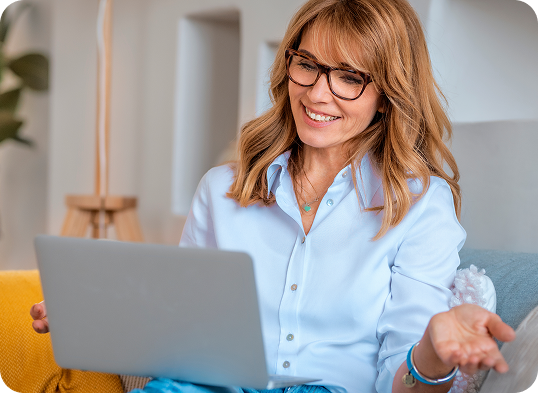
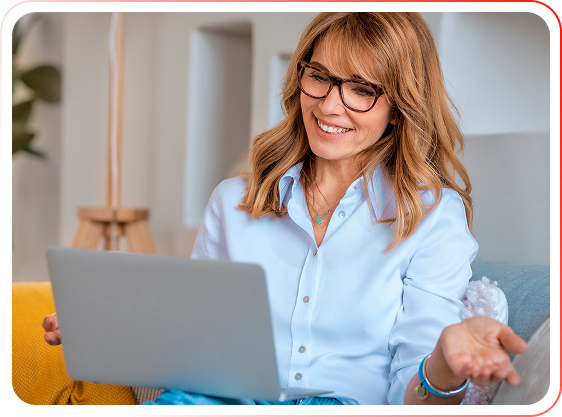
Section changes

diff --git a/styles/style.css b/styles/style.css
@@ -353,12 +353,8 @@ body {
     border-radius: 16px;
     object-fit: cover;
     display: block;
-    padding: 4px;
-    border: 5px solid transparent;
-    border-radius: 12px;
-    background: linear-gradient(45deg, #ff7e5f, #feb47b) border-box;
-    -webkit-background-clip: padding-box, border-box;
-    background-clip: padding-box, border-box;
+
+
 }
 
 .hero-body {
@@ -369,11 +365,11 @@ body {
 }
 
 .hero-title {
-    font-size: 28px;
-    line-height: 36px;
+    font-size: 24px;
+    line-height: 32px;
     margin: 0;
-    color: var(--text-color);
-    font-weight: 700
+    color: black;
+    font-weight: 500
 }
 
 .hero-title .accent {
@@ -383,7 +379,7 @@ body {
 .hero-card {
     background: rgba(255, 255, 255, 0.8);
     border-radius: 16px;
-    padding: 16px;
+    padding: 1px;
     box-shadow: 0 12px 32px rgba(0, 20, 89, 0.12);
     backdrop-filter: blur(6px)
 }
@@ -719,9 +715,11 @@ body {
 
 .cards__title {
     color: #fff;
-    font-size: 20px;
-    line-height: 1.2;
+    font-size: 22px;
+    line-height: 1.1;
     margin: 0;
+    text-transform: uppercase;
+    letter-spacing: 0.6px;
 }
 
 .cards__controls {
@@ -760,6 +758,27 @@ body {
     display: block;
 }
 
+.card {
+    /* subtle elevated cards like the design */
+    box-shadow: 0 6px 18px rgba(16, 24, 40, 0.08);
+}
+
+.card__media-wrap {
+    display: block;
+    width: 100%;
+    overflow: hidden;
+    position: relative;
+    right: 40px;
+    bottom: 20px;
+}
+
+.card__media {
+    display: block;
+    width: 100%;
+
+
+}
+
 
 .card__body {
     padding: 12px;
@@ -780,19 +799,21 @@ body {
     display: flex;
     gap: 8px;
     justify-content: center;
-    margin-top: 12px
+    margin-top: 18px;
 }
 
 .cards__dot {
     width: 10px;
     height: 10px;
     border-radius: 999px;
-    background: rgba(255, 255, 255, 0.35);
-    border: 0
+    background: rgba(255, 255, 255, 0.85);
+    border: 2px solid rgba(255, 255, 255, 0.2);
+    box-shadow: 0 1px 2px rgba(0, 0, 0, 0.08);
 }
 
 .cards__dot.is-active {
-    background: #fff
+    background: #ff1200;
+    border-color: #ff1200;
 }
 
 .cards__cta {
@@ -803,10 +824,15 @@ body {
     margin: 12px auto 0;
     background: linear-gradient(90deg, #ff1200, #ff5a3a);
     color: #fff;
-    padding: 10px 16px;
+    padding: 12px 20px;
     border-radius: 999px;
     text-decoration: none;
     font-weight: 700
+}
+
+/* Make the cards area visually separated inside the blue panel */
+.cards__container {
+    padding: 20px 8px;
 }
 
 /* ----------------------
@@ -1309,6 +1335,110 @@ body {
     font-size: 13px;
     color: var(--muted);
     text-align: center
+}
+
+/* ----------------------
+   FAQ (mobile-first, accessible)
+   ---------------------- */
+.faq {
+    background: #eaf6fb;
+    /* slightly lighter than design base */
+    padding: 48px 16px;
+}
+
+.faq__wrap {
+    width: 100%;
+    max-width: 1200px;
+    margin: 0 auto;
+}
+
+.faq__header {
+    text-align: center;
+    margin-bottom: 20px;
+}
+
+.faq__title {
+    color: #ff1200;
+    font-size: 18px;
+    font-weight: 800;
+    letter-spacing: 0.6px;
+    text-transform: uppercase;
+    margin: 0;
+}
+
+.faq__container {
+    background: #ffffff;
+    border-radius: 16px;
+    padding: 20px;
+}
+
+.faq__grid {
+    display: flex;
+    flex-direction: column;
+    gap: 16px;
+}
+
+.faq__column {
+    display: flex;
+    flex-direction: column;
+    gap: 16px;
+}
+
+.faq__item {
+    background: transparent;
+    border-radius: 10px;
+    overflow: hidden;
+}
+
+.faq__item summary {
+    list-style: none;
+    cursor: pointer;
+    padding: 18px 12px;
+    display: flex;
+    align-items: center;
+    justify-content: space-between;
+    gap: 12px;
+    font-weight: 700;
+    font-size: 16px;
+    border-radius: 8px;
+}
+
+.faq__item[open] summary {
+    background: #fff;
+}
+
+.faq__question {
+    color: #000;
+}
+
+.faq__answer {
+    padding: 12px 12px 18px 12px;
+    color: #374354;
+    font-size: 15px;
+    line-height: 1.5;
+    border-top: 1px solid #e6ebee;
+    background: #fff;
+}
+
+.faq__item summary::-webkit-details-marker {
+    display: none
+}
+
+.faq__item summary:after {
+    content: '+';
+    display: inline-block;
+    width: 28px;
+    height: 28px;
+    border-radius: 999px;
+    border: 1px solid #ff1200;
+    color: #ff1200;
+    text-align: center;
+    line-height: 26px;
+    font-weight: 700;
+}
+
+.faq__item[open] summary:after {
+    content: '−';
 }
 
 @media screen and (max-width: 325px) {

diff --git a/index.html b/index.html
@@ -100,6 +100,7 @@
         </div>
         <div class="hero-decor hero-decor--left" aria-hidden="true"></div>
     </section>
+
     <!-- Bundles -->
 
 
@@ -453,7 +454,72 @@
             </div>
         </div>
     </section>
+    <!-- FAQ: Frequently asked questions -->
+    <section class="faq" aria-label="Frequently asked questions">
+        <div class="faq__wrap">
+            <header class="faq__header">
+                <h2 class="faq__title">Frequently Asked Questions</h2>
+            </header>
 
+            <div class="faq__container">
+                <div class="faq__grid">
+                    <div class="faq__column">
+                        <details class="faq__item" open>
+                            <summary class="faq__question">Can I take the same type of course more than once and receive
+                                CE credits?</summary>
+                            <div class="faq__answer">An example of this would be completing an additional 3 CE hours of
+                                Ethics resulting in a total of 6 hours of Ethics. Yes, you can. The additional 3 CE
+                                hours of Ethics would then go towards your General CE requirements. But you cannot take
+                                the same course (same NRED CE #) for a second time and receive the additional credits.
+                                Prior to submitting your completed CE certificates, verify that you do not have
+                                duplicate courses.</div>
+                        </details>
+
+                        <details class="faq__item">
+                            <summary class="faq__question">Where can I go to get the most up-to-date real estate license
+                                renewal information?</summary>
+                        </details>
+
+                        <details class="faq__item">
+                            <summary class="faq__question">If this is my first renewal, how many hours of education do I
+                                need to renew my real estate license?</summary>
+                        </details>
+
+                        <details class="faq__item">
+                            <summary class="faq__question">How many CE credits do I need to renew my Salesperson real
+                                estate license?</summary>
+                        </details>
+                    </div>
+
+                    <div class="faq__column">
+                        <details class="faq__item">
+                            <summary class="faq__question">What is the difference between Live, internet, and ZOOM?
+                            </summary>
+                        </details>
+
+                        <details class="faq__item">
+                            <summary class="faq__question">I also hold an NRED Property Manager permit. What additional
+                                courses do I need to complete to renew my PM permit?</summary>
+                        </details>
+
+                        <details class="faq__item">
+                            <summary class="faq__question">Can I renew my real estate license online?</summary>
+                        </details>
+
+                        <details class="faq__item">
+                            <summary class="faq__question">If I need additional assistance regarding my real estate
+                                license and/or permits, who can I reach out to?</summary>
+                        </details>
+
+                        <details class="faq__item">
+                            <summary class="faq__question">What if I need to swap-out a CE class for a different type or
+                                date for a live class?</summary>
+                        </details>
+                    </div>
+                </div>
+            </div>
+        </div>
+    </section>
     <!-- Partners: industry partners (semantic, namespaced) -->
     <section class="partners-block" aria-label="Our industry partners">
         <div class="partners-block__container">

diff --git a/styles/tab.css b/styles/tab.css
@@ -590,6 +590,50 @@
     }
 }
 
+/* FAQ: two-column layout on tablet and desktop */
+@media screen and (min-width: 768px) {
+    .faq {
+        padding: 72px 24px;
+    }
+
+    .faq__container {
+        padding: 28px 32px;
+        border-radius: 20px;
+    }
+
+    .faq__grid {
+        flex-direction: row;
+        gap: 32px;
+    }
+
+    .faq__column {
+        flex: 1;
+    }
+
+    .faq__title {
+        font-size: 20px;
+    }
+}
+
+@media screen and (min-width: 1025px) {
+    .faq__wrap {
+        max-width: 1280px;
+    }
+
+    .faq__title {
+        font-size: 22px;
+    }
+
+    .faq__item summary {
+        padding: 20px 18px;
+        font-size: 18px;
+    }
+
+    .faq__answer {
+        font-size: 15px;
+    }
+}
+
 /* Bundles: tablet & desktop layouts */
 @media screen and (min-width: 768px) {
     .bundles-block__grid {
